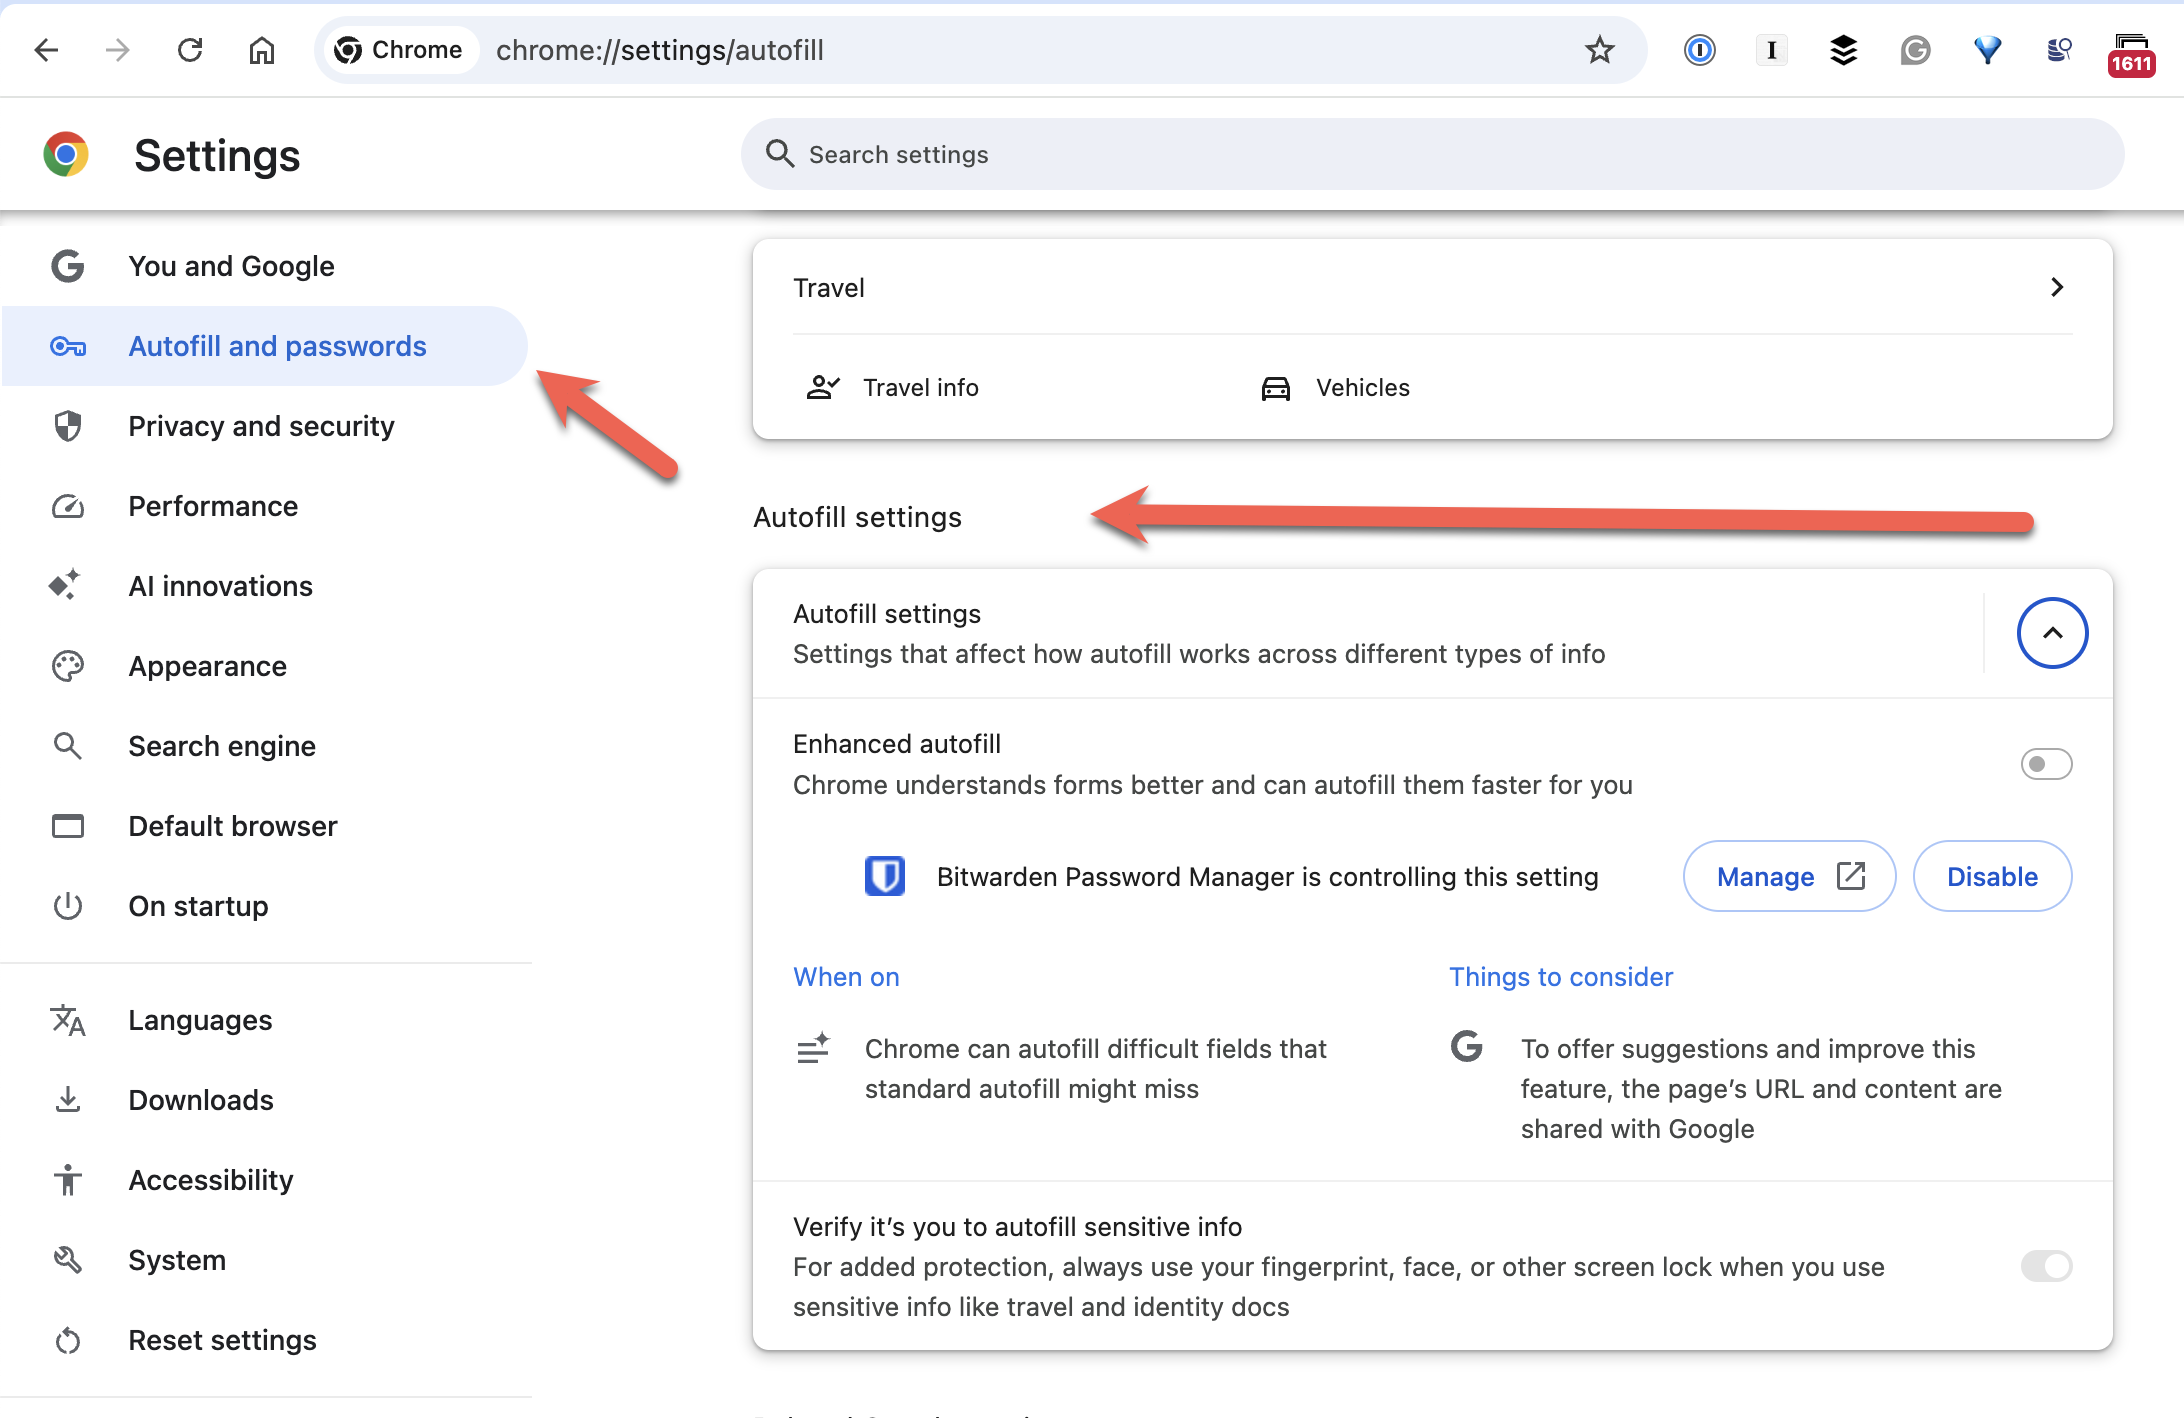
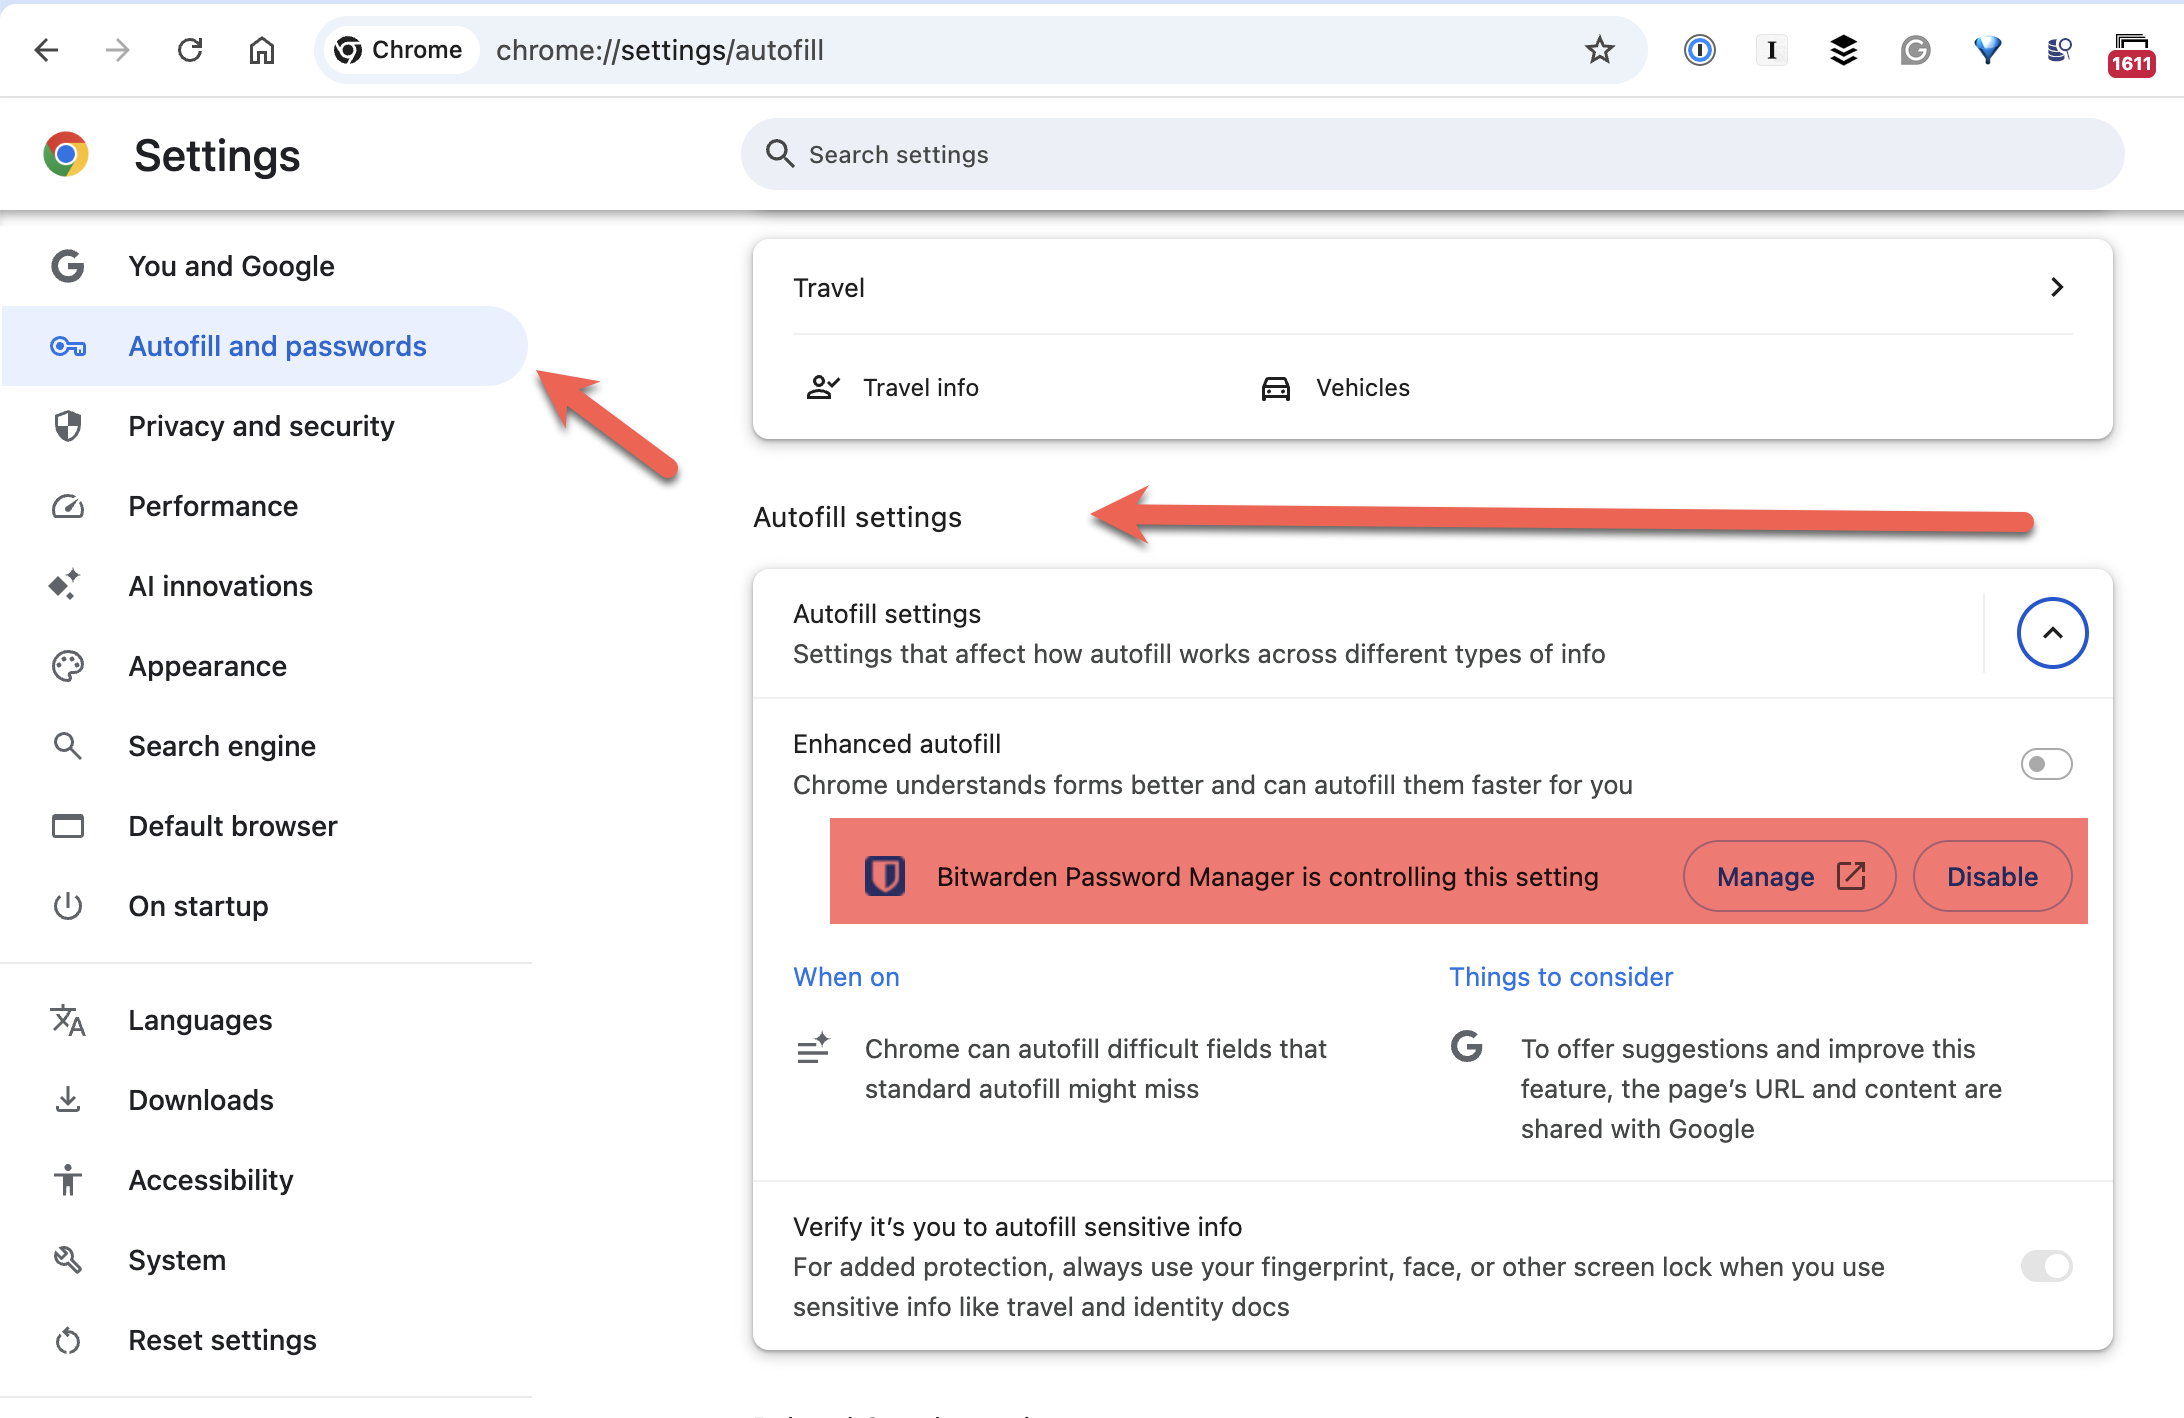
Minor edit

Changed region(s): [[0.3736, 0.5585, 0.9652, 0.6516]]

diff --git a/_posts/2026-06-17-migrating-from-1password-to-bitwarden.md b/_posts/2026-06-17-migrating-from-1password-to-bitwarden.md
@@ -40,7 +40,9 @@ Why?
 
 ![bitwardenPro](../images/2026/06/bitwardenPro.png)
 
-Note that you can get Bitwarden for **absolutely free**, but the integrated authentication alone is worth the price.
+Note that you can get **Bitwarden** for **absolutely free**, but the integrated [authenticator](https://bitwarden.com/products/authenticator/) alone is worth the price.
+
+If you really want to use **Bitwarden** for free, you can. But you will need to get the **authenticator** separately as a **standalone application**.
 
 I therefore decided to pull the trigger and **migrate**.
 
@@ -140,7 +142,7 @@ Turn this on:
 
 ![bitwardenBiometrics](../images/2026/06/bitwardenBiometrics.png)
 
-Next, configure your **browser** to **integrate** with Bitwarden.
+Next, configure your **browser** to **integrate** with **Bitwarden**.
 
 From the **browser extension**, go to **settings**:
 
@@ -156,7 +158,7 @@ In [Chrome,](https://www.google.com/chrome/) it is here:
 
 ![chromeAutofill](../images/2026/06/chromeAutofill.png)
 
-You should see Bitwarden registered for **Enhanced Autofill**.
+You should see **Bitwarden** registered for **Enhanced Autofill**.
 
 **Bitwarden** is also available on your favourite phone AppStore - [Apple](https://www.apple.com/app-store/) or [Google](https://play.google.com/store/apps). Install it.
 